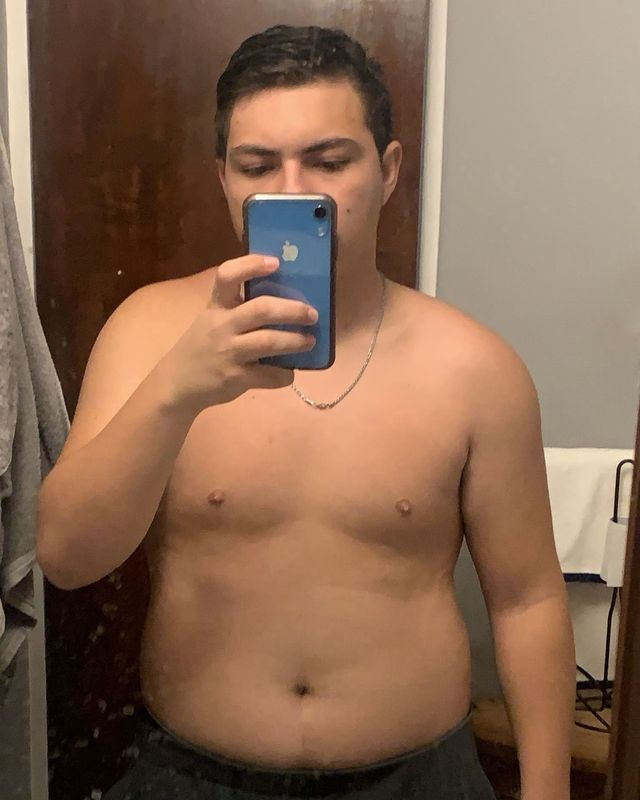
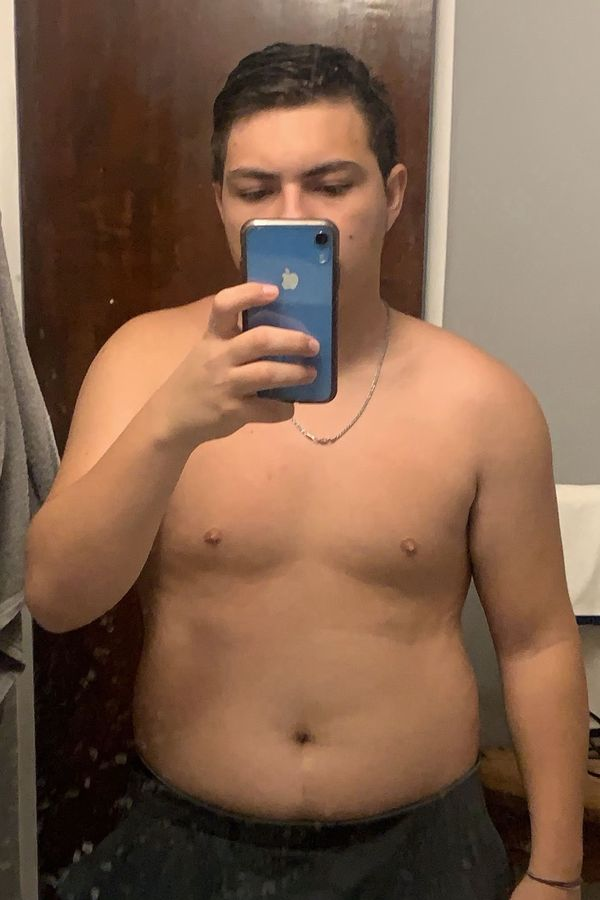
Merge coach and story into one coach profile with before/now photos
Claude-Session: https://claude.ai/code/session_01Si3xvHTHFQcEQxiMk1ADL7

diff --git a/index.html b/index.html
@@ -164,34 +164,28 @@ section.block{padding-block:clamp(72px,10vw,128px);border-bottom:1px solid var(-
 .plan .btn{justify-content:center}
 .note{font-family:var(--mono);font-size:12px;color:var(--muted);margin-top:20px;letter-spacing:.04em}
 
-/* Coach */
-.coach{display:grid;grid-template-columns:minmax(0,5fr) minmax(0,7fr);gap:clamp(32px,6vw,80px);align-items:center}
-.photo{aspect-ratio:4/5;max-width:100%;background:var(--surface);border:1px solid var(--line);display:grid;place-items:center;position:relative;overflow:hidden}
-.photo .portrait{position:absolute;inset:0;width:100%;height:100%;object-fit:cover;object-position:50% 15%;filter:saturate(.92) contrast(1.05);transition:transform 1.2s cubic-bezier(.2,.8,.2,1)}
-.photo:hover .portrait{transform:scale(1.03)}
-.photo::after{content:"";position:absolute;inset:0;background:linear-gradient(to top,color-mix(in srgb,var(--bg) 85%,transparent),transparent 40%)}
-.photo .badge{position:absolute;right:16px;bottom:16px;width:28px;z-index:1}
-.photo .cap{position:absolute;z-index:1;bottom:14px;left:16px;font-family:var(--mono);font-size:11px;letter-spacing:.12em;text-transform:uppercase;color:var(--muted)}
-.coach .text{display:grid;gap:22px;min-width:0}
-.coach h2{font-size:clamp(44px,6vw,76px)}
-.stats{display:flex;flex-wrap:wrap;gap:32px;border-top:1px solid var(--line);padding-top:22px}
+/* Coach profile */
+.coach{display:grid;gap:clamp(28px,4vw,48px)}
+.coach-head{display:grid;gap:14px}
+.coach-head h2{font-size:clamp(44px,6.4vw,84px)}
+.coach-body{display:grid;grid-template-columns:minmax(0,1fr) minmax(0,1fr);gap:clamp(28px,5vw,64px);align-items:center}
+.side{display:grid;gap:28px;min-width:0}
+.pair{display:grid;grid-template-columns:1fr 1fr;gap:12px}
+.pair figure{margin:0;display:grid;gap:10px;min-width:0}
+.pair .frame{overflow:hidden;border:1px solid var(--line);aspect-ratio:2/3;max-width:100%;background:var(--surface)}
+.pair img{width:100%;height:100%;object-fit:cover;transition:transform 1.2s cubic-bezier(.2,.8,.2,1)}
+.pair figure:hover img{transform:scale(1.04)}
+.pair .was img{filter:saturate(.8)}
+.pair figcaption{display:flex;justify-content:space-between;gap:8px;font-family:var(--mono);font-size:11px;letter-spacing:.12em;text-transform:uppercase;color:var(--muted)}
+.pair figcaption span:first-child{color:var(--accent)}
+.coach .text{display:grid;gap:18px;min-width:0}
+.coach .text p{color:var(--muted);font-size:18px;line-height:1.7;max-width:62ch}
+.coach .text p.close{color:var(--fg)}
+.stats{display:flex;flex-wrap:wrap;gap:32px;border-top:1px solid var(--line);padding-top:22px;margin-top:6px}
 .stats div{display:grid;gap:2px}
 .stats b{font-family:var(--display);font-weight:400;font-size:40px;line-height:1;font-variant-numeric:tabular-nums}
 .stats span{font-family:var(--mono);font-size:11px;letter-spacing:.12em;text-transform:uppercase;color:var(--muted)}
-
-.story{grid-column:1/-1;display:grid;gap:28px;border-top:1px solid var(--line);padding-top:clamp(36px,5vw,56px);margin-top:clamp(24px,4vw,48px)}
-.story{grid-template-columns:minmax(0,5fr) minmax(0,7fr);align-items:center;column-gap:clamp(24px,6vw,80px)}
-.story-head{display:grid;gap:14px}
-.story-head h3{font-size:clamp(40px,5vw,64px)}
-.before{margin:0;max-width:100%;display:grid;gap:10px}
-.story-text{display:grid;gap:24px;min-width:0}
-.before img{width:100%;aspect-ratio:4/5;object-fit:cover;border:1px solid var(--line);filter:saturate(.85)}
-.before figcaption{display:flex;justify-content:space-between;gap:12px;font-family:var(--mono);font-size:11px;letter-spacing:.12em;text-transform:uppercase;color:var(--muted)}
-.before figcaption span:first-child{color:var(--accent)}
-.story-body{display:grid;gap:18px;min-width:0}
-.story-body p{color:var(--muted);font-size:18px;line-height:1.7;max-width:62ch}
-.story-body p:last-child{color:var(--fg)}
-@media (max-width:960px){.story{grid-template-columns:1fr}.before{max-width:420px}}
+@media (max-width:960px){.coach-body{grid-template-columns:1fr}.side{max-width:560px}}
 
 /* Contact */
 .contact{text-align:left}
@@ -223,8 +217,6 @@ footer img{height:28px;width:auto}
   .route{grid-template-columns:repeat(2,minmax(0,1fr))}
   .grid4,.story-grid{grid-template-columns:1fr}
   .plans{grid-template-columns:1fr;max-width:520px}
-  .coach{grid-template-columns:1fr}
-  .photo{max-width:420px}
   .channels{grid-template-columns:1fr}
   .nav ul{display:none}
 }
@@ -318,35 +310,32 @@ footer img{height:28px;width:auto}
 
 <section class="block" id="coach">
   <div class="wrap coach">
-    <div class="photo reveal">
-      <img class="portrait" src="coach-portrait.jpg" alt="Your Ascend coach" loading="lazy">
-      <img class="badge" src="peak.png" alt="">
-      <span class="cap">1:1 Personal Coaching</span>
+    <div class="coach-head reveal">
+      <p class="eyebrow">Your coach</p>
+      <h2>From the chubby kid to your gym partner.</h2>
     </div>
-    <div class="text reveal">
-      <p class="eyebrow">About me</p>
-      <h2>Your coach. Your gym partner.</h2>
-      <p class="lede">Ascend isn't a trainer with a clipboard watching you suffer. It's me training next to you, texting you when you skip, and hyping up every PR. Think of it like working out with a friend who knows exactly what to do.</p>
+    <div class="coach-body">
+      <div class="side reveal">
+      <div class="pair">
+        <figure class="was">
+          <div class="frame"><img src="story-before.jpg" alt="Before starting, around 240 pounds" loading="lazy"></div>
+          <figcaption><span>Before</span><span>Around 240 lb</span></figcaption>
+        </figure>
+        <figure>
+          <div class="frame"><img src="coach-now.jpg" alt="Your Ascend coach today" loading="lazy"></div>
+          <figcaption><span>Today</span><span>Age 22</span></figcaption>
+        </figure>
+      </div>
       <div class="stats">
-        <div><b>1:1</b><span>Every client</span></div>
-        <div><b>1</b><span>Friend in your corner</span></div>
-        <div><b>0</b><span>Cookie-cutter plans</span></div>
+          <div><b>1:1</b><span>Every client</span></div>
+          <div><b>2023</b><span>Training since</span></div>
+          <div><b>22</b><span>Years old</span></div>
       </div>
-    </div>
-    <div class="story reveal">
-      <figure class="before">
-        <img src="story-before.jpg" alt="Before starting, around 240 pounds" loading="lazy">
-        <figcaption><span>Before</span><span>Around 240 lb</span></figcaption>
-      </figure>
-      <div class="story-text">
-      <div class="story-head">
-        <p class="eyebrow">My story</p>
-        <h3>From the chubby kid to Ascend.</h3>
       </div>
-      <div class="story-body">
+      <div class="text reveal">
         <p>Growing up, I was always the chubby kid. I got bullied for my weight for most of my childhood, and it took a toll on my confidence. During the pandemic I got up to 240 pounds, and at 17 I decided something had to change. In 2023 I started training and found out the gym was about way more than looking good. It taught me discipline, consistency and, above all, to trust myself.</p>
-        <p>Today I'm 22 and at the best point of my life, physically and mentally. That's why I started Ascend. I know what it feels like to not be comfortable with yourself and to want to change without knowing where to start. I was there too. You don't have to be the strongest or have any experience to start. We all start somewhere, and I'm here to walk that road with you.</p>
-      </div>
+        <p>Today I'm 22 and at the best point of my life, physically and mentally. That's why I started Ascend. I know what it feels like to not be comfortable with yourself and to want to change without knowing where to start. I was there too.</p>
+        <p class="close">I'm not a trainer with a clipboard watching you suffer. I train next to you, check in when you skip and celebrate every PR with you. You don't have to be the strongest or have any experience to start. We all start somewhere, and I'm here to walk that road with you.</p>
       </div>
     </div>
   </div>
@@ -579,6 +568,10 @@ footer img{height:28px;width:auto}
     "Email":"Correo","Handle, number and email are placeholders.":"Usuario, número y correo son de ejemplo.",
     "Ascend 1:1 Personal Coaching":"Ascend Coaching Personal 1:1","SUMMIT":"CIMA","Mobility and recovery routine":"Rutina de movilidad y recuperación","Warm-up and mobility work":"Calentamiento y movilidad",
     "My story":"Mi historia","About me":"Sobre mí",
+    "From the chubby kid to your gym partner.":"Del nene gordito a tu pana de gym.",
+    "Today":"Hoy","Age 22":"22 años","Training since":"Entrenando desde","Years old":"Años",
+    "Today I'm 22 and at the best point of my life, physically and mentally. That's why I started Ascend. I know what it feels like to not be comfortable with yourself and to want to change without knowing where to start. I was there too.":"Hoy tengo 22 años y estoy en el mejor momento de mi vida, tanto física como mentalmente. Por eso nace ASCEND. Sé lo que se siente no estar cómodo contigo mismo y querer cambiar sin saber por dónde empezar. Yo también estuve ahí.",
+    "I'm not a trainer with a clipboard watching you suffer. I train next to you, check in when you skip and celebrate every PR with you. You don't have to be the strongest or have any experience to start. We all start somewhere, and I'm here to walk that road with you.":"No soy un trainer con un clipboard mirándote sufrir. Entreno a tu lado, te escribo si faltas y celebro cada PR contigo. No tienes que ser el más fuerte ni tener experiencia para comenzar. Todos empezamos en algún lugar, y aquí estoy para acompañarte en el camino.",
     "From the chubby kid to Ascend.":"Del nene gordito a Ascend.","Before":"Antes","Around 240 lb":"Cerca de 240 lb",
     "Growing up, I was always the chubby kid. I got bullied for my weight for most of my childhood, and it took a toll on my confidence. During the pandemic I got up to 240 pounds, and at 17 I decided something had to change. In 2023 I started training and found out the gym was about way more than looking good. It taught me discipline, consistency and, above all, to trust myself.":"Desde pequeño siempre fui el nene gordito. Sufrí bullying por mi peso durante gran parte de mi infancia, y eso afectó mucho mi confianza. Durante la pandemia llegué a pesar 240 libras, y a los 17 años decidí que tenía que hacer un cambio. En 2023 comencé a entrenar y descubrí que el gimnasio era mucho más que verme bien. Me enseñó disciplina, constancia y, sobre todo, a confiar en mí mismo.",
     "Today I'm 22 and at the best point of my life, physically and mentally. That's why I started Ascend. I know what it feels like to not be comfortable with yourself and to want to change without knowing where to start. I was there too. You don't have to be the strongest or have any experience to start. We all start somewhere, and I'm here to walk that road with you.":"Hoy tengo 22 años y estoy en el mejor momento de mi vida, tanto física como mentalmente. Por eso nace ASCEND. Sé lo que se siente no estar cómodo contigo mismo y querer cambiar sin saber por dónde empezar. Yo también estuve ahí. No tienes que ser el más fuerte ni tener experiencia para comenzar. Todos empezamos en algún lugar, y aquí estoy para acompañarte en el camino.","We train together":"Entrenamos juntos","No judgment":"Sin juicios"
